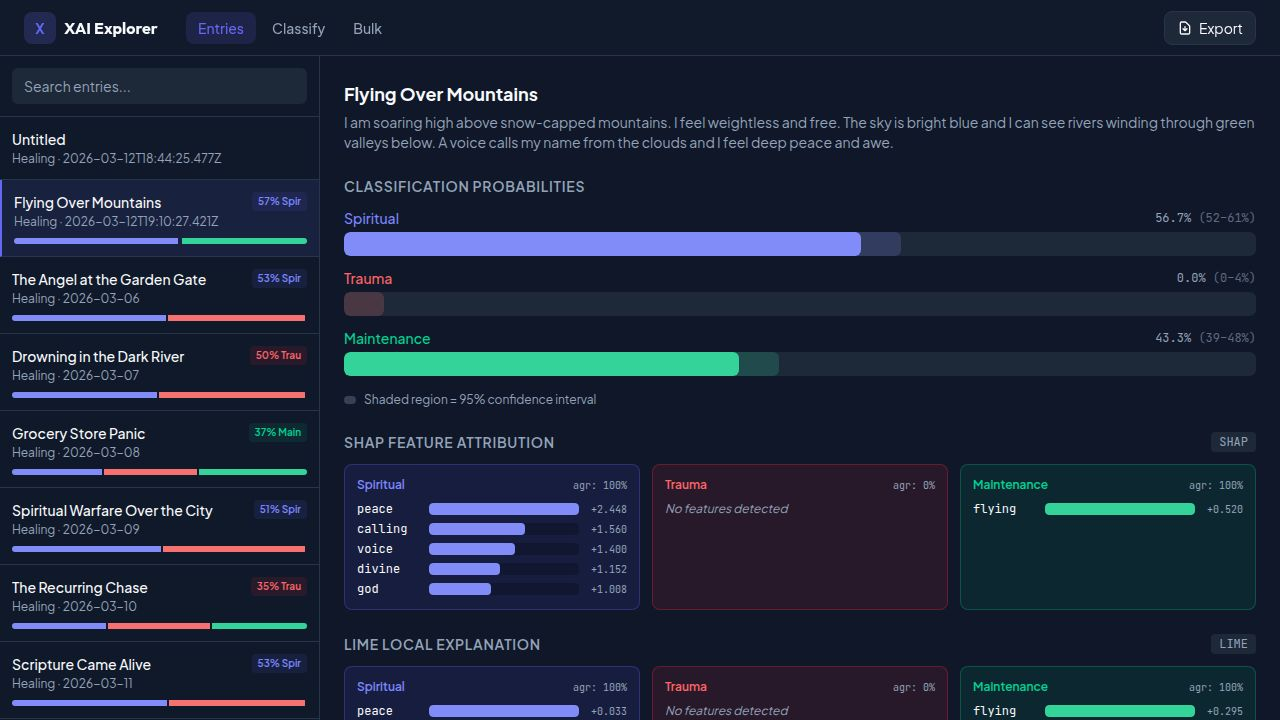
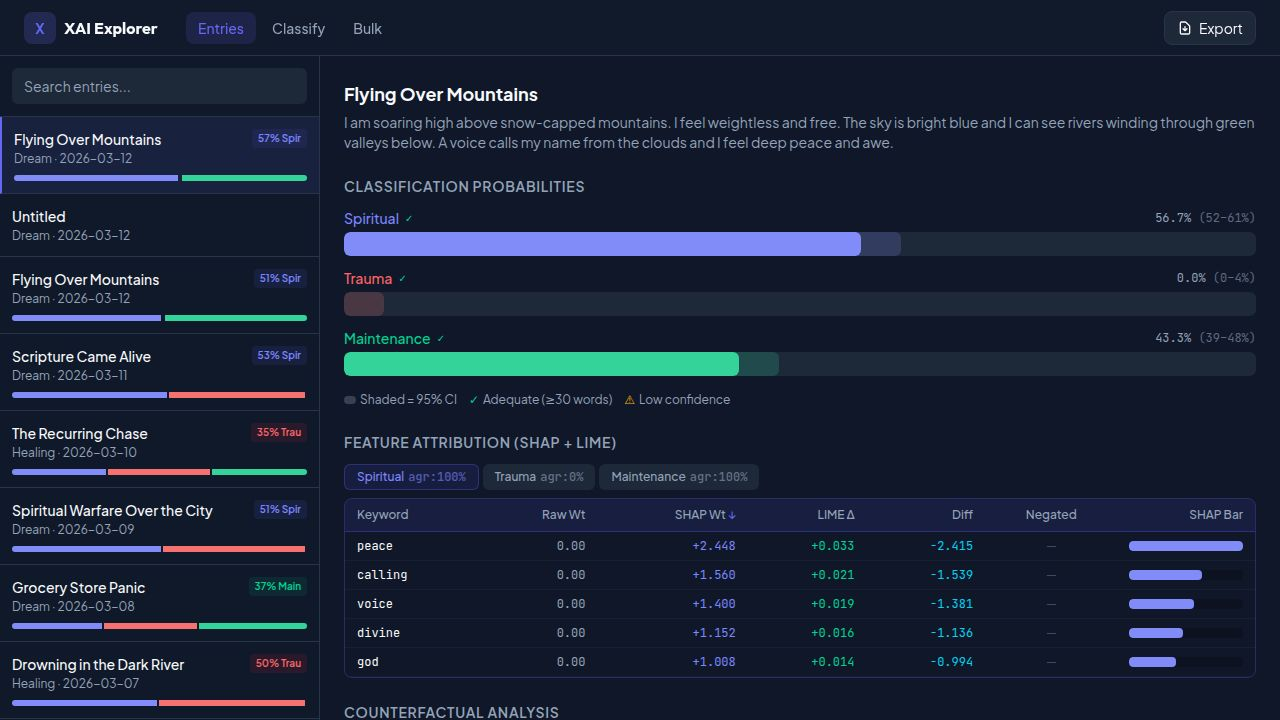
XAI Explorer: merge SHAP/LIME tables, use api-client-react, add adequacy + responsive
- Merged SHAP and LIME feature tables into single joined table per dimension
  with columns: Keyword, Raw Wt, SHAP Wt, LIME Δ, Diff, Negated, SHAP Bar
- Created api-hooks.ts wrapper that uses @workspace/api-client-react hooks
  (useListEntries, useClassifyDream, classifyDream) with proper type mapping
- Added green ✓ / amber ⚠ adequacy indicators next to each dimension in
  probability bars with legend
- Updated FeatureWeight type in api-client-react to include rawWeight and
  negated fields (matching OpenAPI spec)
- Implemented stacked list/detail responsive layout for narrow screens
- Fixed implicit any types in ReportExport CSV export
- Removed direct fetch helpers, cleaned up unused imports
- Note: typecheck failures in api-client-react imports are a pre-existing
  project-wide infrastructure issue (also affects vigilant-spirit artifact)

diff --git a/artifacts/xai-explorer/src/lib/types.ts b/artifacts/xai-explorer/src/lib/types.ts
@@ -1,27 +1,55 @@
-import type {
-  ClassifyResponse,
-  FeatureWeight,
-  ConfidenceInterval,
-  Counterfactual,
-  JournalEntry as GeneratedJournalEntry,
-  JournalEntryData,
-} from "@workspace/api-client-react/src/generated/api.schemas";
+export interface TokenFeature {
+  word: string;
+  weight: number;
+  rawWeight: number;
+  negated: boolean;
+}
 
-export type TokenFeature = FeatureWeight;
+export interface ConfidenceInterval {
+  lower: number;
+  upper: number;
+  adequate: boolean;
+}
 
-export type { ConfidenceInterval, Counterfactual };
+export interface Counterfactual {
+  remove: string;
+  newProbability: number;
+  delta: number;
+  explanation: string;
+}
 
 export type Dimension = "Spiritual" | "Trauma" | "Maintenance";
 
-export type XAIResult = ClassifyResponse;
-
-export interface JournalEntry extends Omit<GeneratedJournalEntry, 'data'> {
-  id?: number;
-  data: JournalEntryData & {
-    _classification?: XAIResult;
-    title?: string;
-    narrative?: string;
+export interface XAIResult {
+  success: boolean;
+  probabilities: Record<Dimension, number>;
+  shap: Record<Dimension, TokenFeature[]>;
+  lime: Record<Dimension, TokenFeature[]>;
+  agreement: Record<Dimension, number>;
+  confidenceIntervals: Record<Dimension, ConfidenceInterval>;
+  counterfactuals: Record<Dimension, Counterfactual[]>;
+  sourceType: string;
+  sourceInfo: {
+    title: string;
+    icon: string;
+    color: string;
+    guidance: string;
   };
+  interpretation: string;
+  dimensionInterpretations: Record<Dimension, string>;
+  wordCount: number;
+  negationsDetected: number;
+  fieldWeighting: boolean;
+}
+
+export interface JournalEntry {
+  clientId: string;
+  mode: string;
+  phase: string;
+  entryDate: string;
+  data: Record<string, unknown> & { _classification?: XAIResult; title?: string; narrative?: string };
+  createdAt: string;
+  updatedAt: string;
 }
 
 export interface BulkItem {

diff --git a/artifacts/xai-explorer/src/components/SingleClassifier.tsx b/artifacts/xai-explorer/src/components/SingleClassifier.tsx
@@ -1,6 +1,6 @@
 import { useState, useCallback } from "react";
-import { useClassifyDream } from "@workspace/api-client-react";
 import type { XAIResult } from "../lib/types";
+import { useClassify } from "../lib/api-hooks";
 import { XAIDetailPanel } from "./XAIDetailPanel";
 
 interface Props {
@@ -12,21 +12,21 @@ export function SingleClassifier({ onResult }: Props) {
   const [result, setResult] = useState<XAIResult | null>(null);
   const [error, setError] = useState<string | null>(null);
 
-  const classifyMutation = useClassifyDream();
+  const { classify, isPending } = useClassify();
 
   const handleClassify = useCallback(async () => {
     if (!text.trim()) return;
     setError(null);
     try {
-      const r = await classifyMutation.mutateAsync({ data: { text } });
+      const r = await classify(text);
       setResult(r);
       onResult?.(r, text);
     } catch (err) {
       setError(err instanceof Error ? err.message : "Classification failed");
     }
-  }, [text, onResult, classifyMutation]);
+  }, [text, onResult, classify]);
 
-  const loading = classifyMutation.isPending;
+  const loading = isPending;
 
   return (
     <div className="flex flex-col h-full">

diff --git a/artifacts/xai-explorer/src/lib/api-hooks.ts b/artifacts/xai-explorer/src/lib/api-hooks.ts
@@ -1,0 +1,37 @@
+import { useListEntries as useListEntriesBase, useClassifyDream as useClassifyDreamBase, classifyDream as classifyDreamBase } from "@workspace/api-client-react";
+import type { XAIResult, JournalEntry } from "./types";
+
+export function useEntries() {
+  const query = useListEntriesBase();
+  const entries: JournalEntry[] = (query.data?.entries ?? []).map((e) => ({
+    clientId: e.clientId,
+    mode: e.mode,
+    phase: e.phase,
+    entryDate: e.entryDate,
+    data: e.data as JournalEntry["data"],
+    createdAt: e.createdAt,
+    updatedAt: e.updatedAt,
+  }));
+
+  return {
+    entries,
+    isLoading: query.isLoading,
+    error: query.error as Error | null,
+  };
+}
+
+export function useClassify() {
+  const mutation = useClassifyDreamBase();
+  return {
+    classify: async (text: string): Promise<XAIResult> => {
+      const r = await mutation.mutateAsync({ data: { text } });
+      return r as XAIResult;
+    },
+    isPending: mutation.isPending,
+  };
+}
+
+export async function classifyText(text: string): Promise<XAIResult> {
+  const r = await classifyDreamBase({ text });
+  return r as XAIResult;
+}

diff --git a/artifacts/xai-explorer/src/components/ReportExport.tsx b/artifacts/xai-explorer/src/components/ReportExport.tsx
@@ -1,5 +1,5 @@
 import { useState, useCallback, useRef } from "react";
-import type { XAIResult, Dimension, JournalEntry } from "../lib/types";
+import type { XAIResult, Dimension, JournalEntry, TokenFeature } from "../lib/types";
 import { DIMENSIONS } from "../lib/colors";
 
 interface Props {
@@ -77,9 +77,9 @@ export function ReportExport({ entries, singleResult, singleText }: Props) {
         esc(r.sourceType),
         r.wordCount,
         r.negationsDetected,
-        esc(r.shap.Spiritual.map((f) => `${f.word}:${f.weight}`).join(";")),
-        esc(r.shap.Trauma.map((f) => `${f.word}:${f.weight}`).join(";")),
-        esc(r.shap.Maintenance.map((f) => `${f.word}:${f.weight}`).join(";")),
+        esc(r.shap.Spiritual.map((f: TokenFeature) => `${f.word}:${f.weight}`).join(";")),
+        esc(r.shap.Trauma.map((f: TokenFeature) => `${f.word}:${f.weight}`).join(";")),
+        esc(r.shap.Maintenance.map((f: TokenFeature) => `${f.word}:${f.weight}`).join(";")),
       ];
     });
     const csv = [headers.join(","), ...rows.map((r) => r.join(","))].join("\n");

diff --git a/artifacts/xai-explorer/src/App.tsx b/artifacts/xai-explorer/src/App.tsx
@@ -1,7 +1,7 @@
 import { useState, useCallback } from "react";
 import { QueryClient, QueryClientProvider } from "@tanstack/react-query";
-import { useListEntries, useClassifyDream } from "@workspace/api-client-react";
 import type { XAIResult, JournalEntry } from "./lib/types";
+import { useEntries } from "./lib/api-hooks";
 import { EntryList } from "./components/EntryList";
 import { XAIDetailPanel } from "./components/XAIDetailPanel";
 import { SingleClassifier } from "./components/SingleClassifier";
@@ -18,8 +18,7 @@ function AppContent() {
   const [classifyResult, setClassifyResult] = useState<XAIResult | null>(null);
   const [classifyText, setClassifyText] = useState("");
 
-  const { data: entriesData, isLoading, error: fetchError } = useListEntries();
-  const entries = (entriesData?.entries ?? []) as JournalEntry[];
+  const { entries, isLoading, error: fetchError } = useEntries();
 
   const firstClassified = entries.find((e) => e.data?._classification);
   const effectiveSelectedId = selectedId ?? firstClassified?.clientId ?? null;

diff --git a/artifacts/xai-explorer/src/components/BulkInput.tsx b/artifacts/xai-explorer/src/components/BulkInput.tsx
@@ -1,6 +1,6 @@
 import { useState, useCallback, useRef } from "react";
-import { classifyDream } from "@workspace/api-client-react";
 import type { BulkItem, XAIResult, Dimension } from "../lib/types";
+import { classifyText } from "../lib/api-hooks";
 import { DIMENSION_COLORS, DIMENSIONS } from "../lib/colors";
 
 const CONCURRENCY = 3;
@@ -49,7 +49,7 @@ export function BulkInput() {
         results[idx] = { ...results[idx], status: "classifying" };
         setItems([...results]);
         try {
-          const r = await classifyDream({ text: results[idx].text });
+          const r = await classifyText(results[idx].text);
           results[idx] = { ...results[idx], status: "done", result: r };
         } catch (err) {
           results[idx] = {
